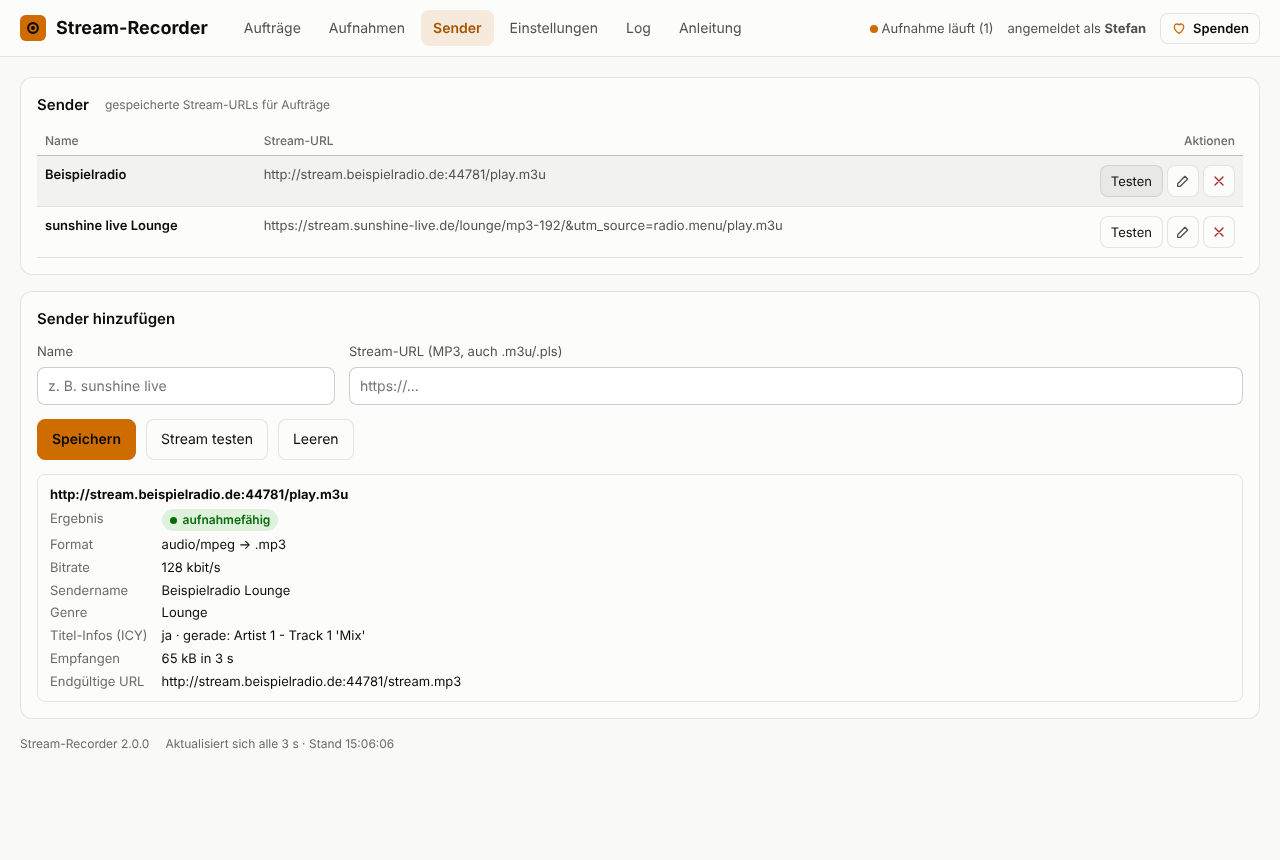
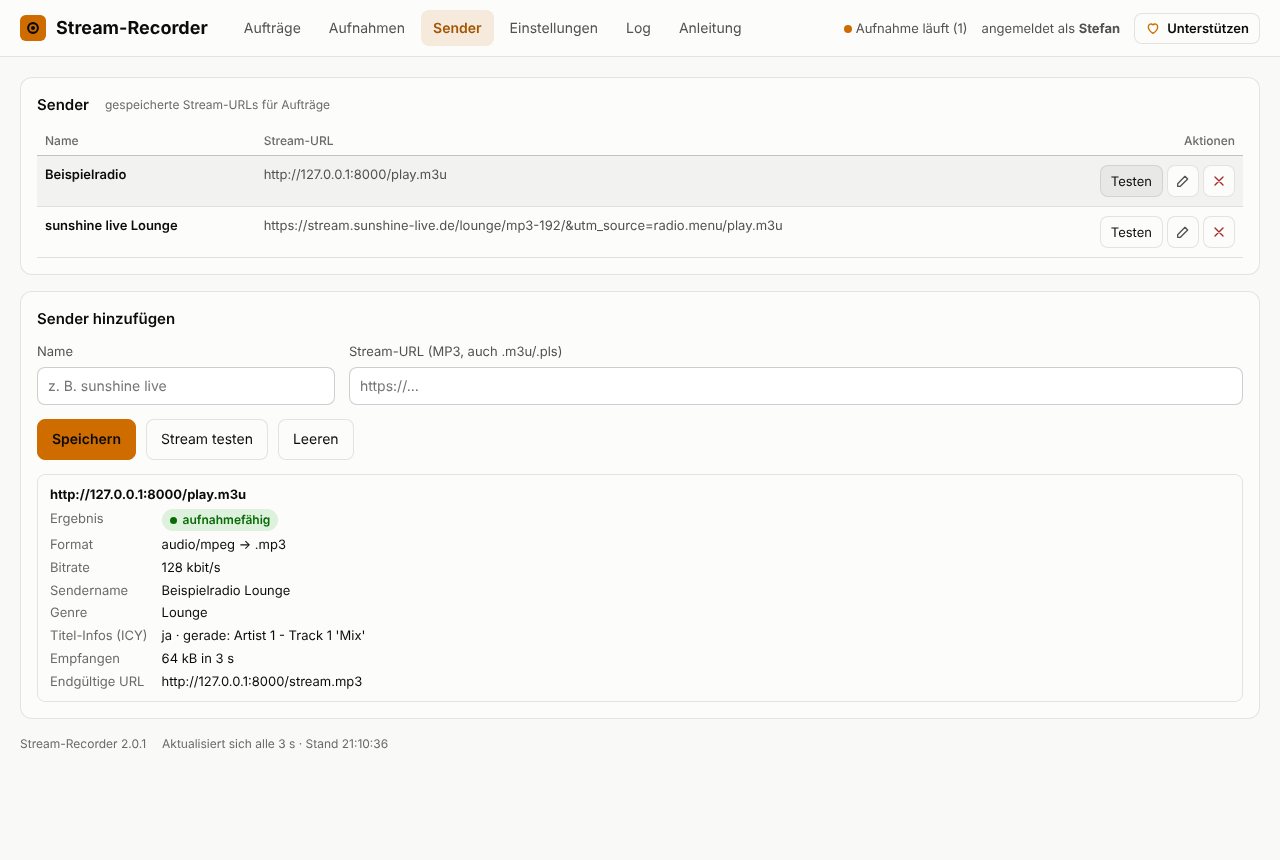
Add files via upload

diff --git a/stream_recorder/app/web/index.html b/stream_recorder/app/web/index.html
@@ -231,10 +231,19 @@ dialog.wide { width: min(940px, calc(100vw - 24px)); }
 @media (max-width: 760px) { .tag-grid { grid-template-columns: minmax(0, 1fr); } .lib-head .right { margin-left: 0; } }
 @media (max-width: 700px) { .target { margin-left: 0; } .who { margin-left: 0; } }
 /* ---------- 2.0: Spenden, Papierkorb, feste Ordner ---------- */
+.donate-wrap { position: relative; display: inline-flex; }
 .donate { display: inline-flex; align-items: center; gap: 6px; border: 1px solid var(--border); border-radius: 8px; padding: 5px 10px; min-height: 30px;
-  color: var(--ink); text-decoration: none; font-weight: 600; font-size: 13px; background: var(--surface); }
+  color: var(--ink); text-decoration: none; font-weight: 600; font-size: 13px; background: var(--surface); white-space: nowrap; }
 .donate svg { color: var(--accent); }
 .donate:hover { background: var(--hover); }
+.donate-tip { position: absolute; right: 0; top: calc(100% + 8px); width: 250px; z-index: 60; padding: 10px 12px; border-radius: 8px;
+  background: var(--surface); color: var(--ink); border: 1px solid var(--border); box-shadow: var(--shadow); font-size: 13px; line-height: 1.45; font-weight: 400;
+  opacity: 0; visibility: hidden; transform: translateY(-4px); transition: opacity .15s, transform .15s, visibility .15s; pointer-events: none; white-space: normal; }
+.donate-tip::before { content: ""; position: absolute; right: 22px; top: -6px; width: 10px; height: 10px; background: var(--surface);
+  border-left: 1px solid var(--border); border-top: 1px solid var(--border); transform: rotate(45deg); }
+.donate-wrap:hover .donate-tip, .donate:focus-visible + .donate-tip { opacity: 1; visibility: visible; transform: none; }
+@media (prefers-reduced-motion: reduce) { .donate-tip { transition: none; } }
+@media (max-width: 700px) { .donate-tip { right: auto; left: 0; } .donate-tip::before { right: auto; left: 22px; } }
 .btn .count { font-size: 12px; font-weight: 600; padding: 1px 7px; border-radius: 999px; background: var(--accent-soft); color: var(--accent-text); }
 code.ro { display: block; font-size: 13px; padding: 8px 10px; border-radius: 8px; border: 1px dashed var(--field-border); color: var(--ink);
   background: var(--hover); overflow-wrap: anywhere; }
@@ -259,7 +268,7 @@ code.ro { display: block; font-size: 13px; padding: 8px 10px; border-radius: 8px
     <div class="who">
       <span><span class="dot" id="schedDot"></span> <span id="schedText">verbinde …</span></span>
       <span id="userBox">angemeldet als <b id="userName">–</b></span>
-      <a class="donate" id="donateBtn" href="https://paypal.me/breitide" target="_blank" rel="noopener" title="Gefällt Dir die App? Über eine Spende freue ich mich."><svg class="i" viewBox="0 0 24 24"><path d="M12 20s-7-4.4-7-10a4 4 0 0 1 7-2.6A4 4 0 0 1 19 10c0 5.6-7 10-7 10z"/></svg><span>Spenden</span></a>
+      <span class="donate-wrap"><a class="donate" id="donateBtn" href="https://paypal.me/breitide" target="_blank" rel="noopener" aria-describedby="donateTip"><svg class="i" viewBox="0 0 24 24"><path d="M12 20s-7-4.4-7-10a4 4 0 0 1 7-2.6A4 4 0 0 1 19 10c0 5.6-7 10-7 10z"/></svg><span data-en="Donate">Unterstützen</span></a><span class="donate-tip" id="donateTip" role="tooltip">Danke für Deine Unterstützung, über eine kleine Spende würde ich mich freuen.</span></span>
       <button class="btn small" id="logoutBtn" hidden>Abmelden</button>
     </div>
   </div>

diff --git a/stream_recorder/app/web/manual-de.html b/stream_recorder/app/web/manual-de.html
@@ -204,7 +204,7 @@ footer { color: var(--muted); font-size: 13px; border-top: 1px solid var(--grid)
 <tr><td class="ui">Log</td><td>die letzten Einträge des App-Logs</td></tr>
 <tr><td class="ui">Anleitung</td><td>diese Seite. Mit <span class="ui">← zur Oberfläche</span> oben rechts geht es zurück</td></tr>
 <tr><td>Status-Punkt</td><td>grün = bereit, orange = Aufnahme läuft, rot = App nicht erreichbar</td></tr>
-<tr><td class="ui">Spenden</td><td>Gefällt Dir die App? Über eine Spende per PayPal freue ich mich</td></tr>
+<tr><td class="ui">Unterstützen</td><td>öffnet die PayPal-Seite für eine kleine Spende. Beim Überfahren mit der Maus erscheint ein kurzer Dank</td></tr>
 </tbody></table></div>
 <h3>Aktionen und Statistik</h3>
 <ul>
@@ -529,7 +529,7 @@ data:
 </tbody></table></div>
 </section>
 
-<footer>Stream-Recorder 2.0.0 · Bedienungsanleitung · <a href="https://paypal.me/breitide">Spenden über PayPal</a></footer>
+<footer>Stream-Recorder 2.0.1 · Bedienungsanleitung · <a href="https://paypal.me/breitide">Spenden über PayPal</a></footer>
 </main>
 </div>
 </body>

diff --git a/stream_recorder/app/web/manual-en.html b/stream_recorder/app/web/manual-en.html
@@ -204,7 +204,7 @@ footer { color: var(--muted); font-size: 13px; border-top: 1px solid var(--grid)
 <tr><td class="ui">Log</td><td>the latest entries of the app log</td></tr>
 <tr><td class="ui">Manual</td><td>this page. <span class="ui">← back to the app</span> at the top right returns</td></tr>
 <tr><td>Status dot</td><td>green = ready, orange = recording, red = app not reachable</td></tr>
-<tr><td class="ui">Donate</td><td>Do you like the app? I'd be happy about a donation via PayPal</td></tr>
+<tr><td class="ui">Donate</td><td>opens the PayPal page for a small donation. Hovering with the mouse shows a short thank-you</td></tr>
 </tbody></table></div>
 <h3>Actions and statistics</h3>
 <ul>
@@ -529,7 +529,7 @@ data:
 </tbody></table></div>
 </section>
 
-<footer>Stream Recorder 2.0.0 · User manual · <a href="https://paypal.me/breitide">Donate via PayPal</a></footer>
+<footer>Stream Recorder 2.0.1 · User manual · <a href="https://paypal.me/breitide">Donate via PayPal</a></footer>
 </main>
 </div>
 </body>

diff --git a/stream_recorder/app/web/lang-en.js b/stream_recorder/app/web/lang-en.js
@@ -268,8 +268,7 @@ window.SR_EN = {
   "Anleitung": "Manual",
   "verbinde …": "connecting …",
   "angemeldet als": "signed in as",
-  "Gefällt Dir die App? Über eine Spende freue ich mich.": "Do you like the app? I'd be happy about a donation.",
-  "Spenden": "Donate",
+  "Danke für Deine Unterstützung, über eine kleine Spende würde ich mich freuen.": "Thank you for your support. I would be happy about a small donation.",
   "Abmelden": "Sign out",
   "Jetzt aufnehmen": "Record now",
   "Aufnahmen in": "Recordings in",

diff --git a/stream_recorder/app/stream_recorder.py b/stream_recorder/app/stream_recorder.py
@@ -49,7 +49,7 @@ import i18n  # noqa: E402
 import library as lib  # noqa: E402
 from i18n import _  # noqa: E402
 
-__version__ = "2.0.0"
+__version__ = "2.0.1"
 BASE = Path(__file__).resolve().parent
 WEB = BASE / "web"
 log = logging.getLogger("stream-recorder")

diff --git a/stream_recorder/CHANGELOG.md b/stream_recorder/CHANGELOG.md
@@ -1,5 +1,14 @@
 # Changelog
 
+## 2.0.1 – 2026-10-29
+
+- **Geändert:** Der Knopf oben rechts in der Menüzeile heißt jetzt **„Unterstützen“**
+  (Englisch „Donate“). Beim Überfahren mit der Maus (oder bei Tastatur-Fokus) erscheint ein
+  kleines Overlay: „Danke für Deine Unterstützung, über eine kleine Spende würde ich mich
+  freuen.“ / „Thank you for your support. I would be happy about a small donation.“
+  Der Link öffnet weiterhin https://paypal.me/breitide in einem neuen Tab.
+- Gleiche Gestaltung wie in Home Assistant Cleanup.
+
 ## 2.0.0 – 2026-10-29
 
 Der Stream-Recorder ist jetzt eine **App für Home Assistant**. Die Mac-Version (1.x) wird
